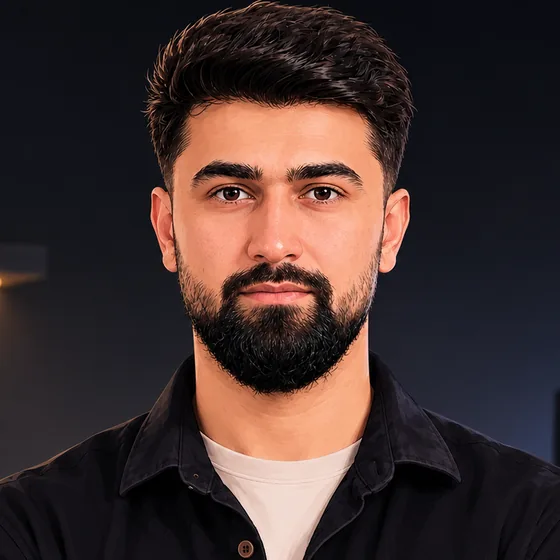
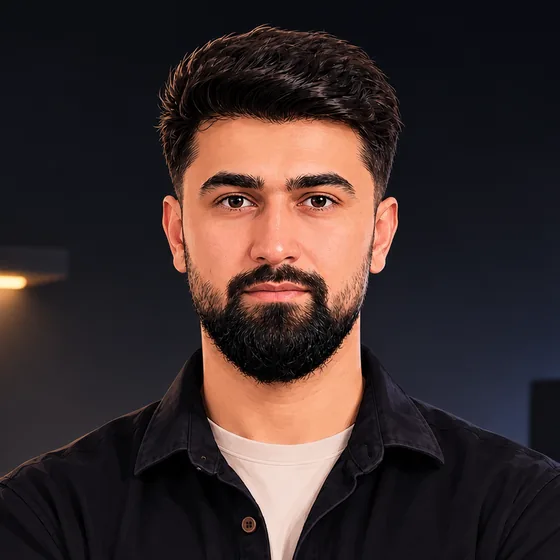
update

diff --git a/nav/nav.css b/nav/nav.css
@@ -22,3 +22,14 @@ a,button{-webkit-tap-highlight-color:transparent}
 @media (prefers-reduced-motion:reduce){.nav-panel,.nav-panel a,.nav-toggle i:before,.nav-toggle i:after{transition:none!important;animation:none!important}}
 /* touch screens wider than a phone: give the header links a thumb-sized hit area */
 @media (hover:none) and (min-width:701px){header nav a{padding:12px 4px}}
+
+/* header: transparent over the hero on arrival, solid black once the page scrolls */
+.js-nav header{transition:background-color .35s ease,border-color .35s ease}
+.js-nav:not(.nav-solid) header{background:transparent;border-bottom-color:transparent;-webkit-backdrop-filter:none;backdrop-filter:none}
+.nav-solid header{background:#000;border-bottom-color:#ffffff14;-webkit-backdrop-filter:none;backdrop-filter:none}
+.nav-solid header nav,.nav-solid header nav a,.nav-solid .nav-toggle{color:#f5f5f7}
+.nav-solid header nav a{color:#c9c6dc}
+.nav-solid header nav a:hover{color:#f5f5f7}
+.nav-solid .nav-panel{background:#000;border-bottom-color:#ffffff14}
+.nav-solid .nav-panel a{color:#f5f5f7;border-bottom-color:#ffffff14}
+.nav-solid .nav-panel a:last-child{color:var(--accent)}

diff --git a/nav/nav.js b/nav/nav.js
@@ -24,5 +24,10 @@
   addEventListener('keydown', (e) => { if (e.key === 'Escape' && panel.classList.contains('open')) { set(false); btn.focus(); } });
   addEventListener('pointerdown', (e) => { if (panel.classList.contains('open') && !panel.contains(e.target) && !btn.contains(e.target)) set(false); });
   addEventListener('scroll', () => { if (panel.classList.contains('open')) set(false); }, { passive: true });
+  // transparent over the hero, black after the first scroll
+  const root = document.documentElement;
+  let solid = null;
+  const paint = () => { const s = scrollY > 8; if (s !== solid) { solid = s; root.classList.toggle('nav-solid', s); } };
+  addEventListener('scroll', paint, { passive: true }); paint();
   matchMedia('(min-width: 701px)').addEventListener('change', (m) => { if (m.matches) set(false); });
 })();
